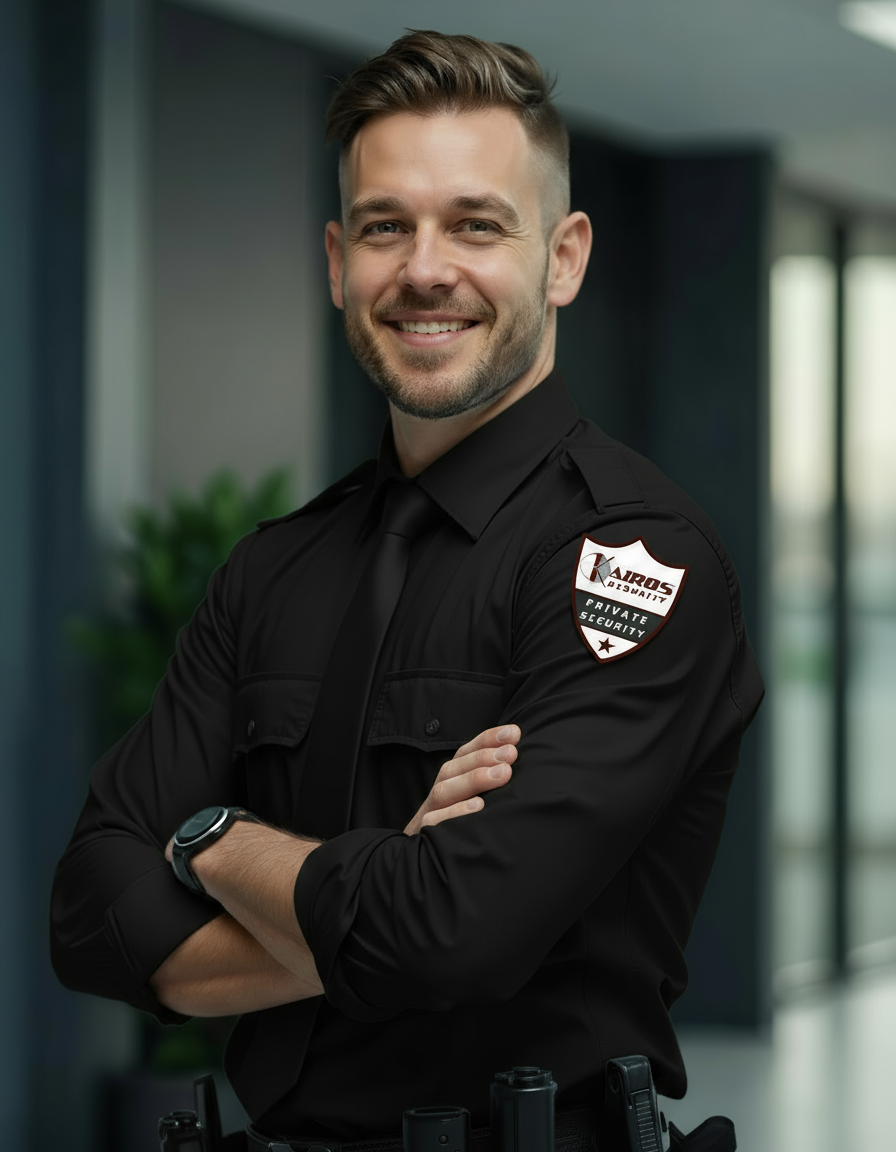
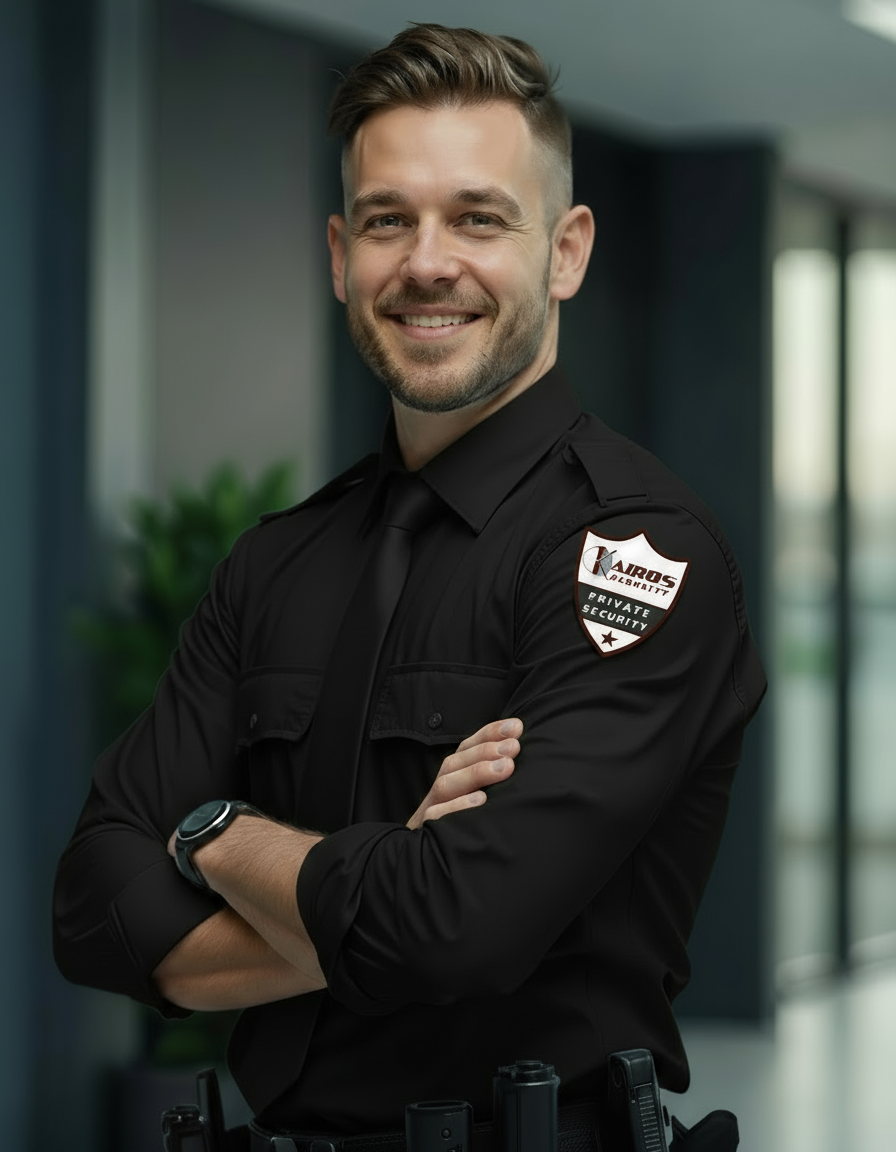
Fill image sides

diff --git a/src/pages/Landing.tsx b/src/pages/Landing.tsx
@@ -152,11 +152,11 @@ const Landing = () => {
               needed to excel in any security role. Join the Kairos family and elevate your security career.
             </p>
             
-            <div className="mb-12 rounded-lg overflow-hidden shadow-lg max-w-2xl mx-auto aspect-video bg-muted">
+            <div className="mb-12 rounded-lg overflow-hidden shadow-lg max-w-2xl mx-auto aspect-video">
               <img 
                 src={securityOfficerImage} 
                 alt="Professional Security Officer with Kairos logo"
-                className="w-full h-full object-contain"
+                className="w-full h-full object-cover"
               />
             </div>
             
